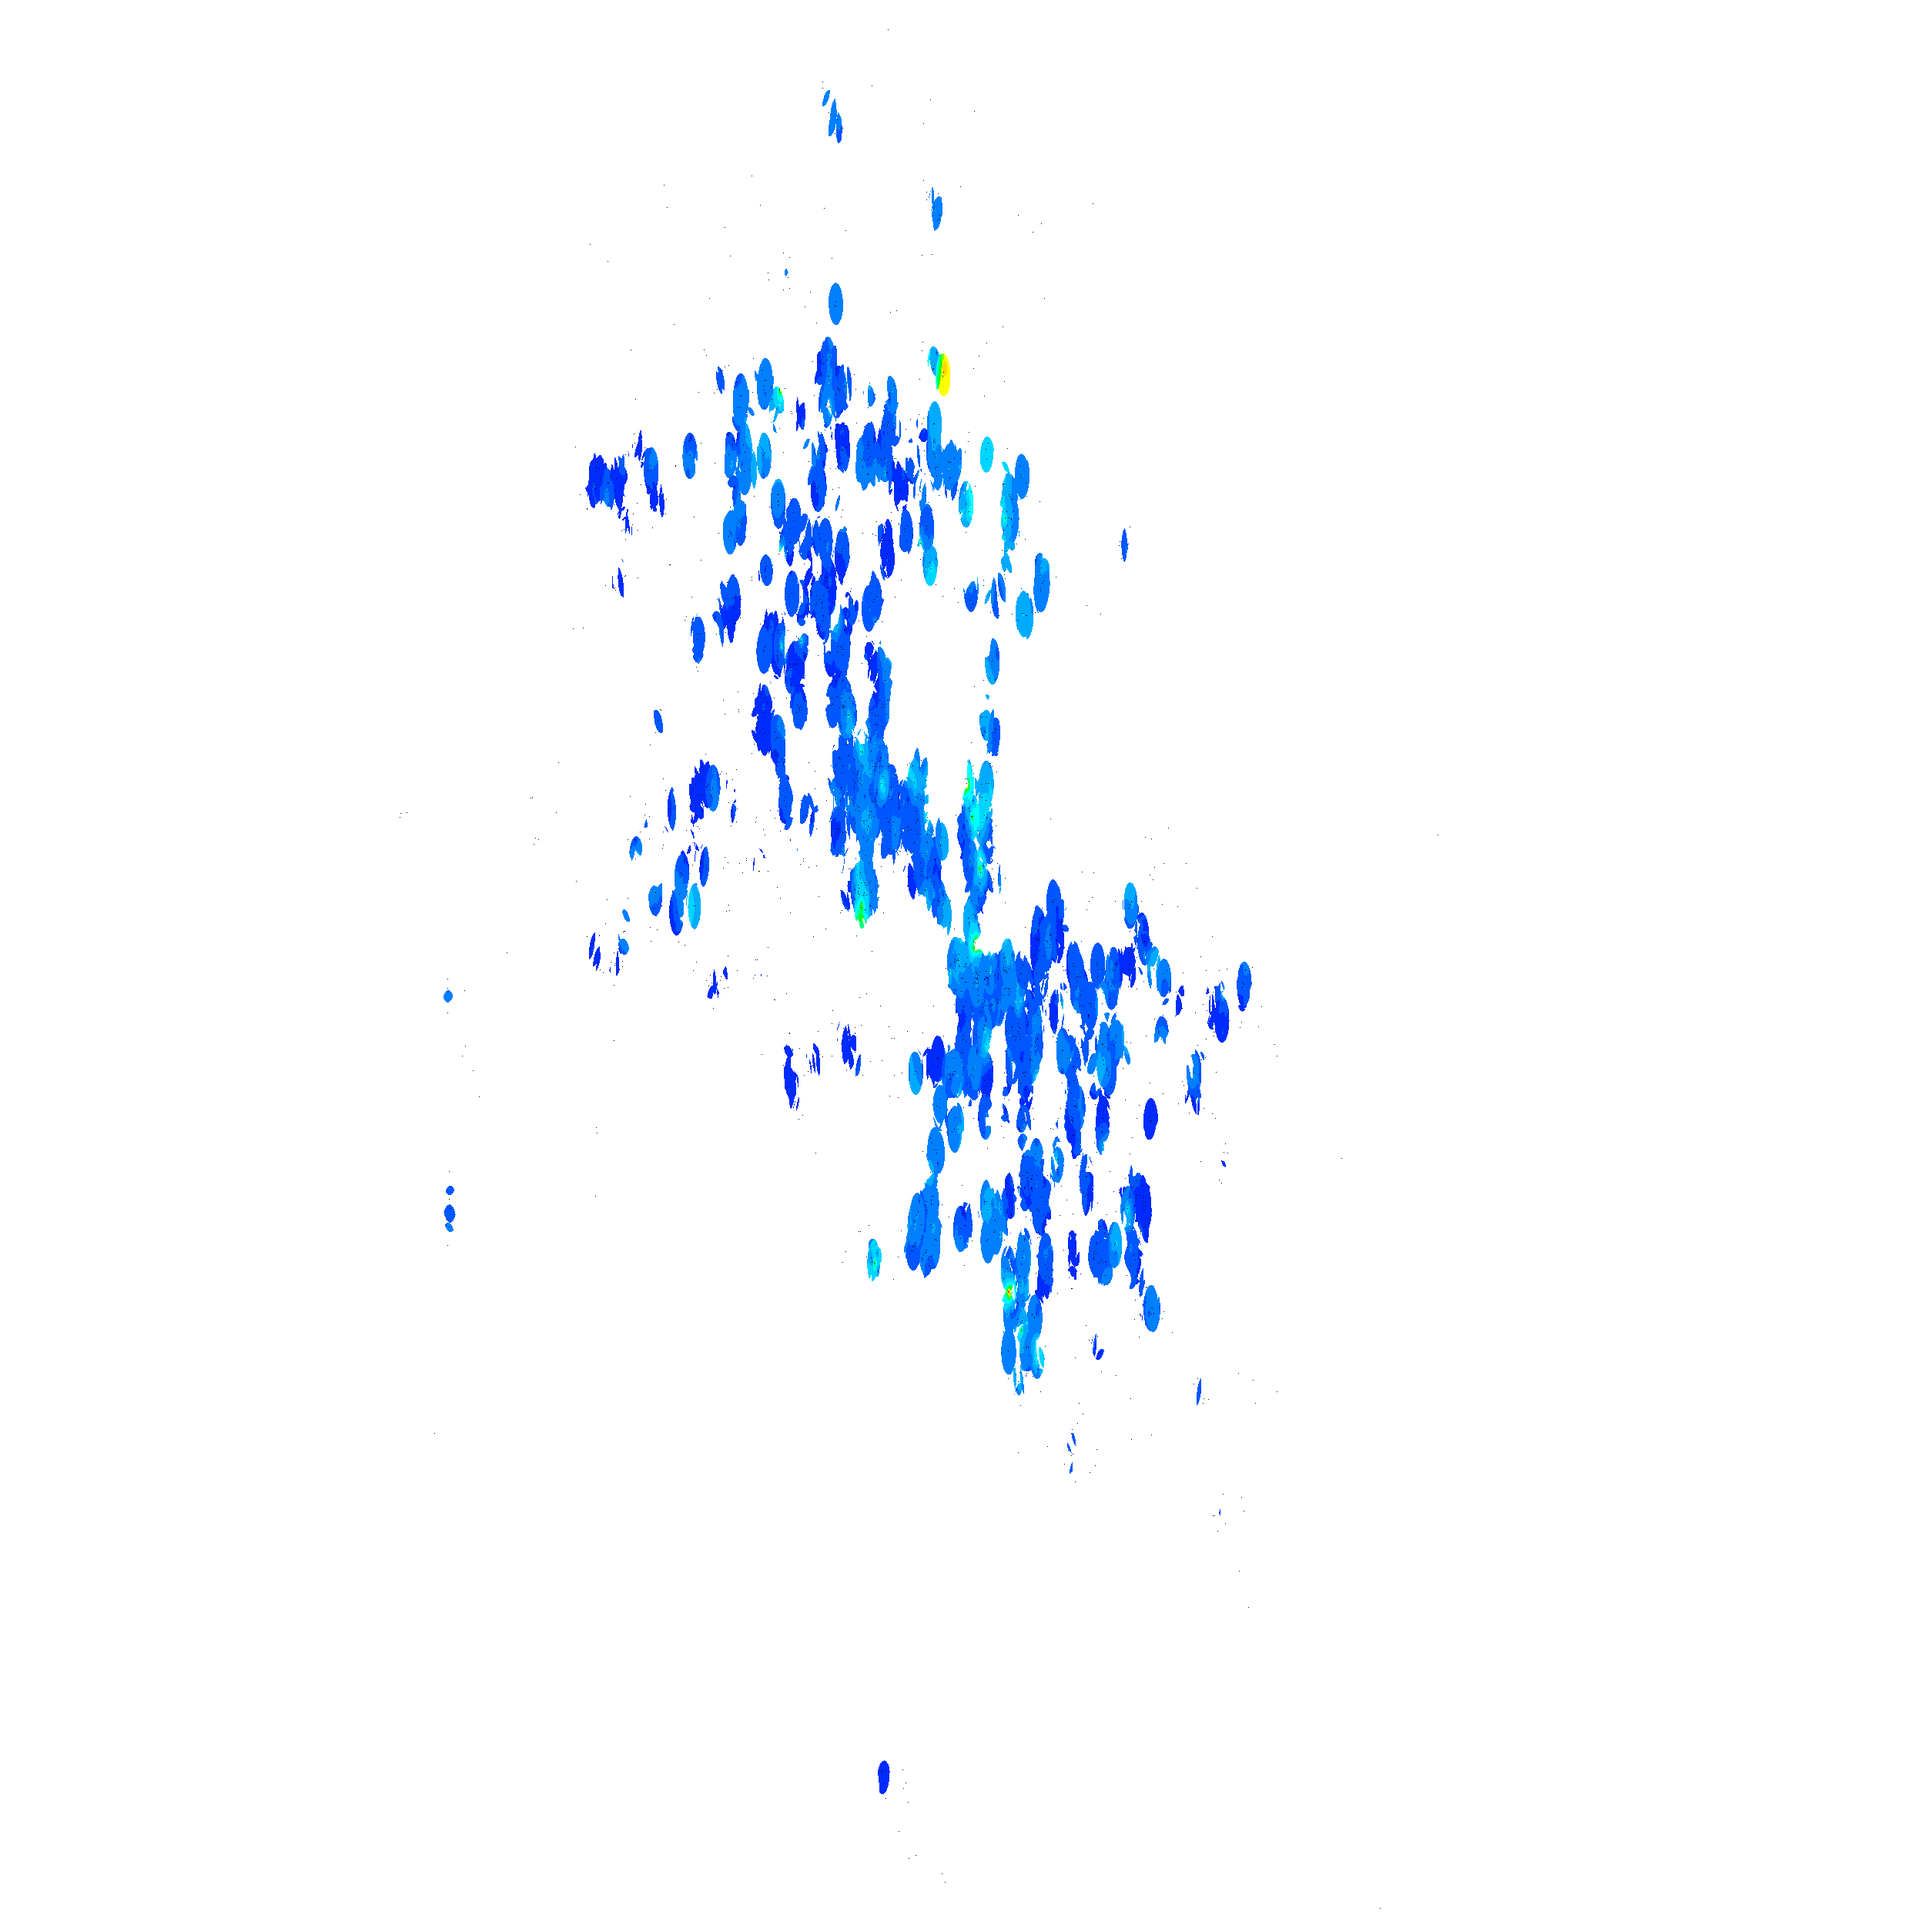
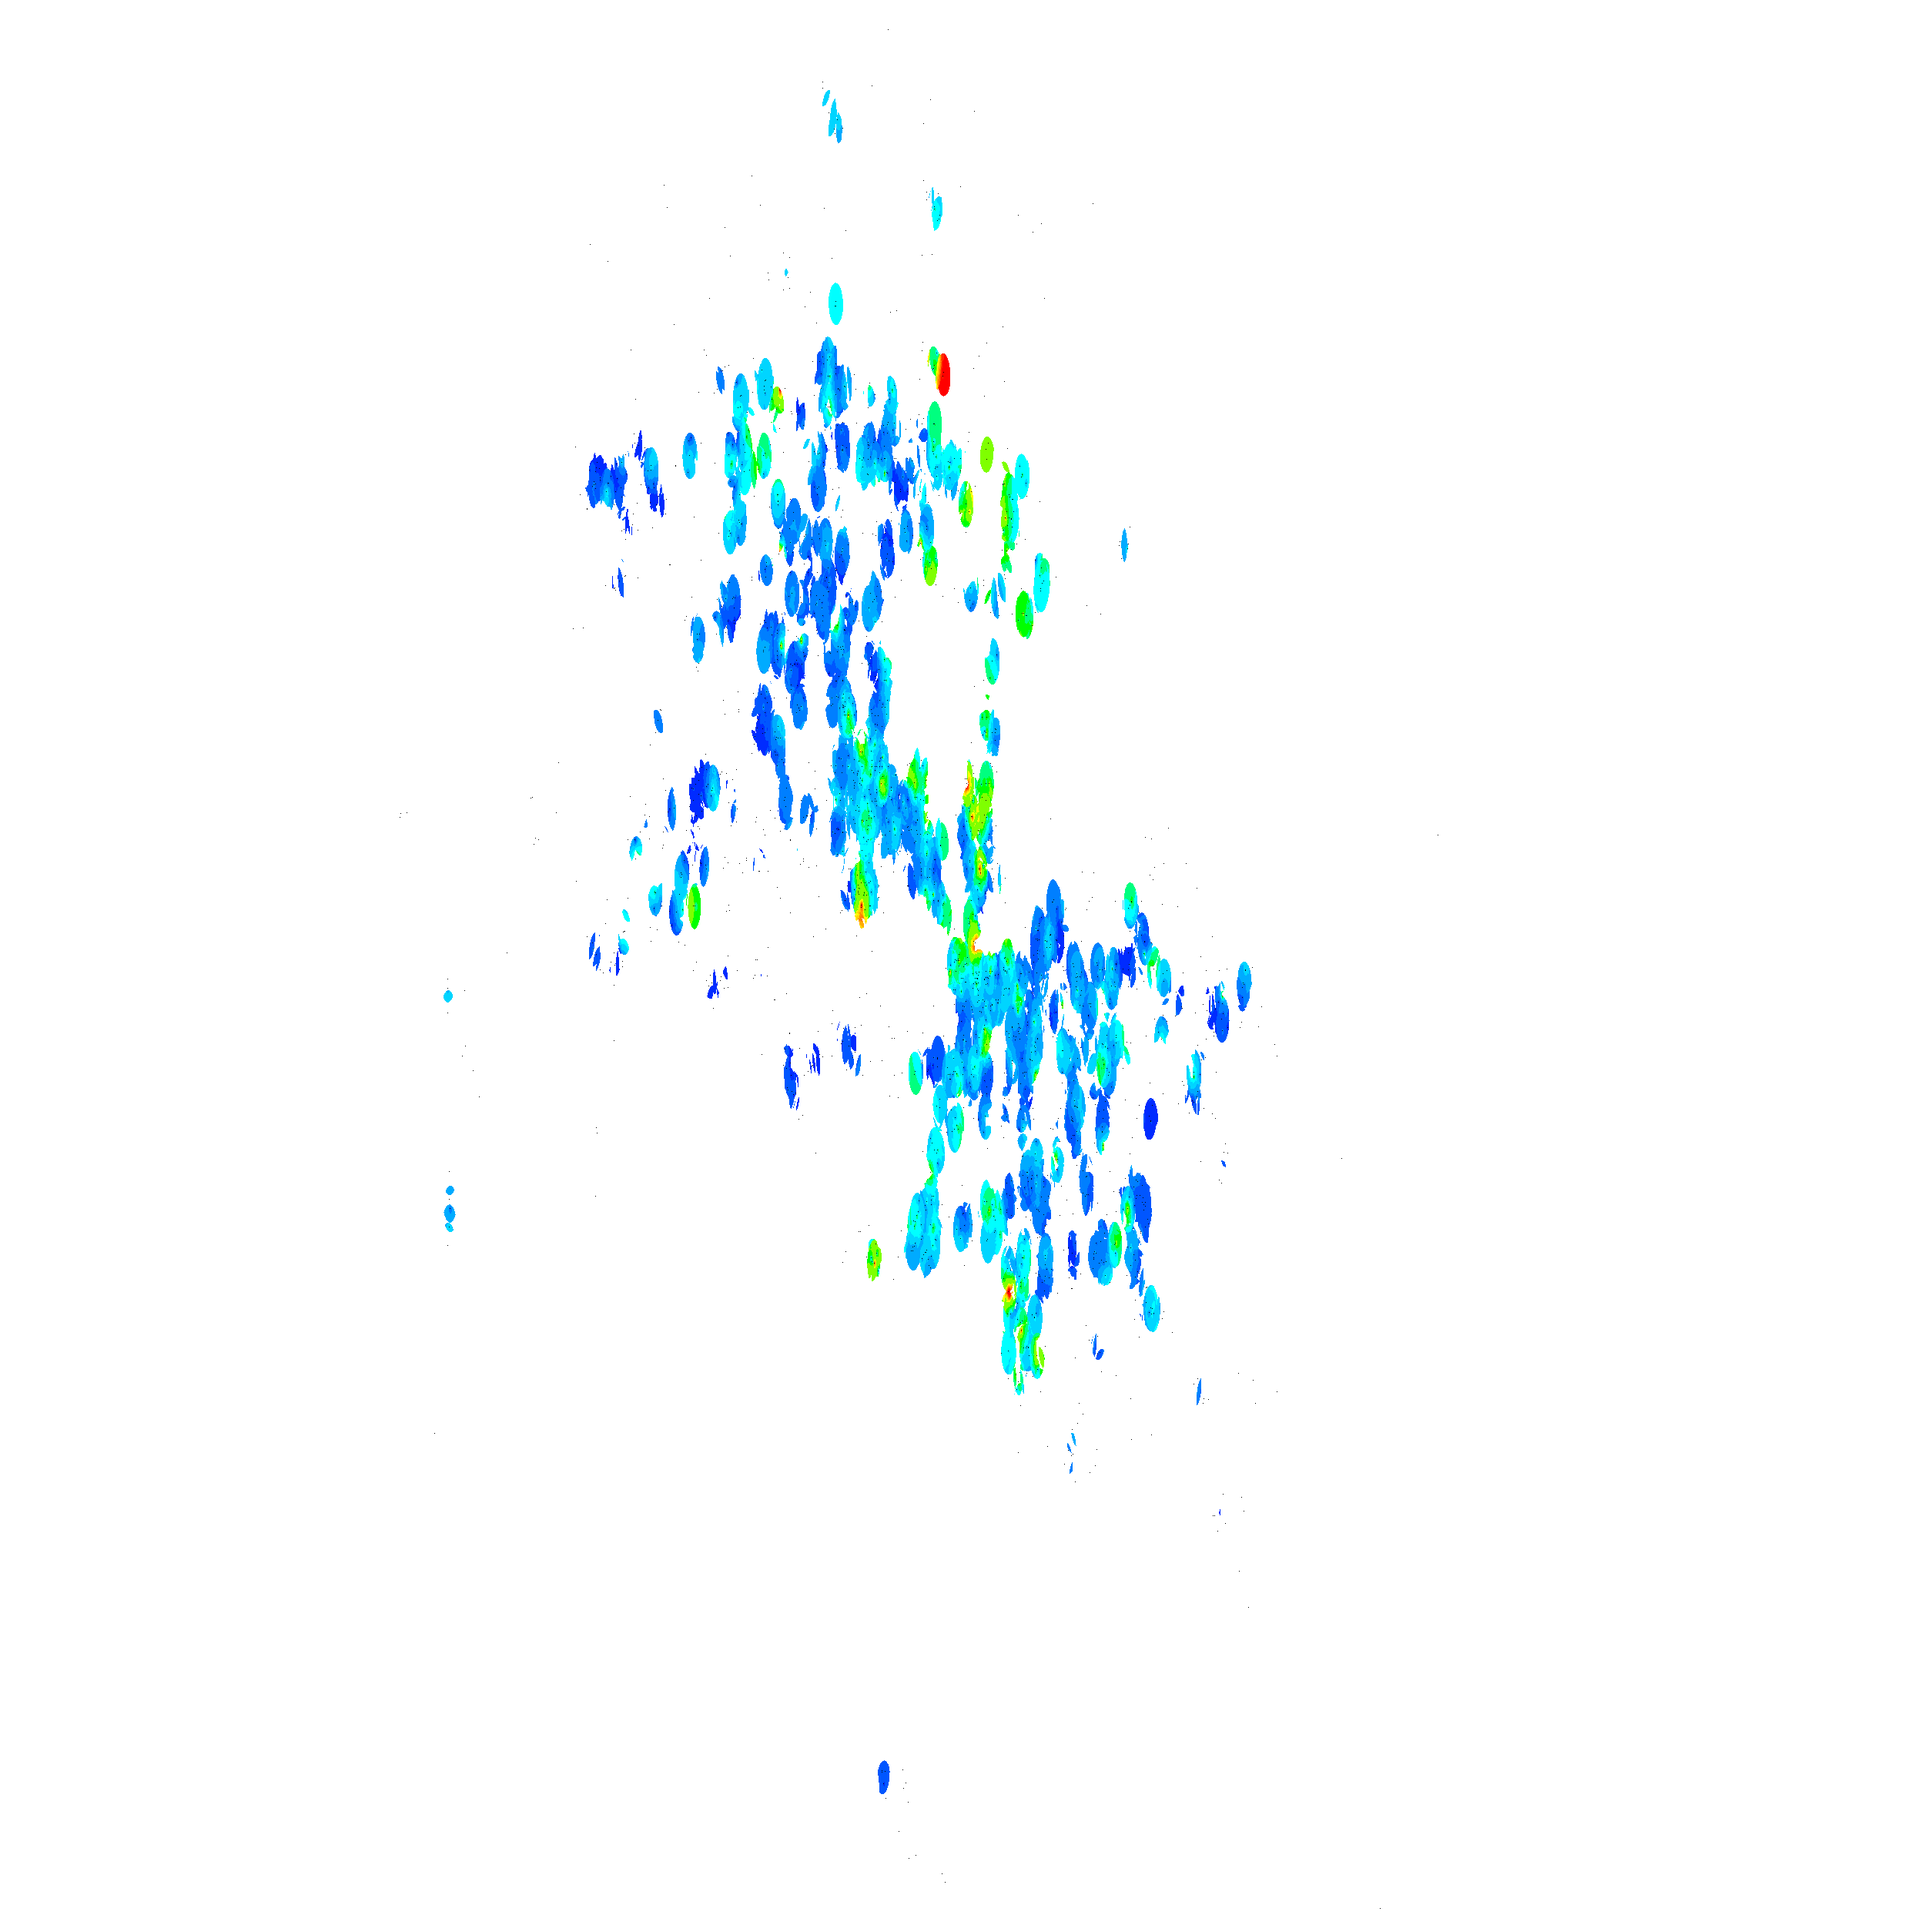
Updated apartment prices to reflect a new pricing scale

Changed region(s): [[0.312, 0.156, 0.6552, 0.7176], [0.3432, 0.4056, 0.3744, 0.4992]]

diff --git a/index.html b/index.html
@@ -55,22 +55,22 @@
   	<div id="legend">
   		<b>$/bedroom</b>
   		<br /><br />  
-  		<font color="#FF0000">&#9608;</font> $1800+<br>
-  		<font color="#FF2B00">&#9608;</font> $1700+<br>
-  		<font color="#FF5600">&#9608;</font> $1600+<br>
-  		<font color="#FF7F00">&#9608;</font> $1500+<br>
-  		<font color="#FFAB00">&#9608;</font> $1400+<br>
-  		<font color="#FFD500">&#9608;</font> $1300+<br>
-  		<font color="#FFFF00">&#9608;</font> $1200+<br>
-  		<font color="#7FFF00">&#9608;</font> $1100+<br>
-  		<font color="#00FF00">&#9608;</font> $1000+<br>
-  		<font color="#00FF7F">&#9608;</font> $900+<br>
-  		<font color="#00FFFF">&#9608;</font> $800+<br>
-  		<font color="#00D5FF">&#9608;</font> $700+<br>
-  		<font color="#00ABFF">&#9608;</font> $600+<br>
-  		<font color="#007FFF">&#9608;</font> $500+<br>
+  		<font color="#FF0000">&#9608;</font> $1100+<br>
+  		<font color="#FF2B00">&#9608;</font> $1050+<br>
+  		<font color="#FF5600">&#9608;</font> $1000+<br>
+  		<font color="#FF7F00">&#9608;</font> $950+<br>
+  		<font color="#FFAB00">&#9608;</font> $900+<br>
+  		<font color="#FFD500">&#9608;</font> $850+<br>
+  		<font color="#FFFF00">&#9608;</font> $800+<br>
+  		<font color="#7FFF00">&#9608;</font> $750+<br>
+  		<font color="#00FF00">&#9608;</font> $700+<br>
+  		<font color="#00FF7F">&#9608;</font> $650+<br>
+  		<font color="#00FFFF">&#9608;</font> $600+<br>
+  		<font color="#00D5FF">&#9608;</font> $550+<br>
+  		<font color="#00ABFF">&#9608;</font> $500+<br>
+  		<font color="#007FFF">&#9608;</font> $450+<br>
   		<font color="#0056FF">&#9608;</font> $400+<br>
-  		<font color="#002BFF">&#9608;</font> $300+<br>
+  		<font color="#002BFF">&#9608;</font> $350+<br>
   		<font color="#0000FF">&#9608;</font> $300-<br>
   		<br />
   		From 1/2013 <br /><br />

diff --git a/draw_heatmap.py b/draw_heatmap.py
@@ -110,35 +110,35 @@ def color(val):
     if val is None:
         return (255,255,255,0)
 
-    if val > 1800:
+    if val > 1200:
         return (255, 0, 0) # red
-    elif val > 1700:
-        return (255, 43, 0) # redorange
-    elif val > 1600:
-        return (255, 86, 0) # orangered
-    elif val > 1500:
-        return (255, 127, 0) # orange
-    elif val > 1400:
-        return (255, 171, 0) # orangeyellow
-    elif val > 1300:
-        return (255, 213, 0) # yelloworange
-    elif val > 1200:
-        return (255, 255, 0) # yellow
     elif val > 1100:
-        return (127, 255, 0) # lime green
+        return (255, 43, 0) # redorange
+    elif val > 1050:
+        return (255, 86, 0) # orangered
     elif val > 1000:
-        return (0, 255, 0) # green
+        return (255, 127, 0) # orange
+    elif val > 950:
+        return (255, 171, 0) # orangeyellow
     elif val > 900:
-        return (0, 255, 127) # teal
-    elif val > 800:
-        return (0, 255, 255) # light blue
+        return (255, 213, 0) # yelloworange
+    elif val > 850:
+        return (255, 255, 0) # yellow
     elif val > 700:
-        return (0, 213, 255) # medium light blue
+        return (127, 255, 0) # lime green
+    elif val > 650:
+        return (0, 255, 0) # green
     elif val > 600:
-        return (0, 171, 255) # light medium blue
+        return (0, 255, 127) # teal
+    elif val > 550:
+        return (0, 255, 255) # light blue
     elif val > 500:
-        return (0, 127, 255) # medium blue
+        return (0, 213, 255) # medium light blue
+    elif val > 450:
+        return (0, 171, 255) # light medium blue
     elif val > 400:
+        return (0, 127, 255) # medium blue
+    elif val > 350:
         return (0, 86, 255) # medium dark blue
     elif val > 300:
         return (0, 43, 255) # dark medium blue
